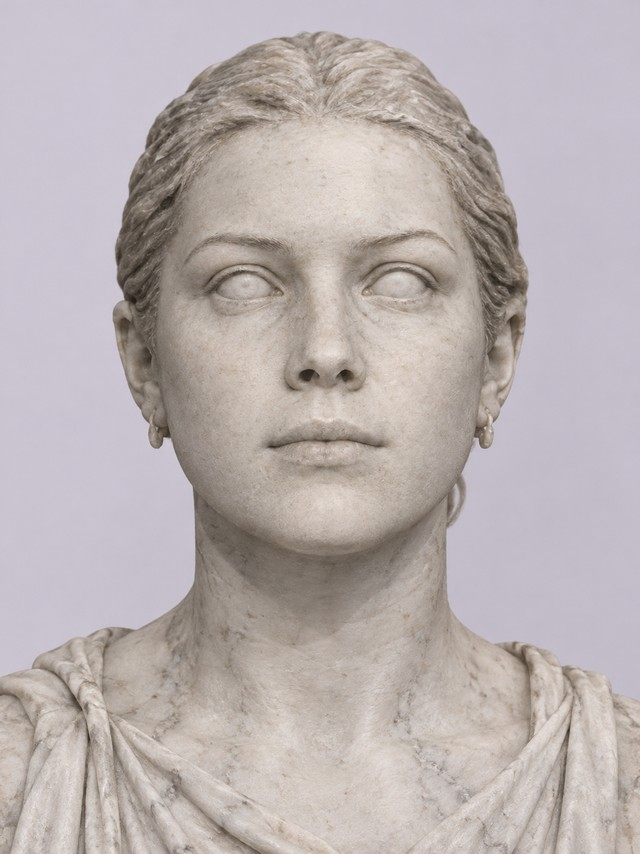
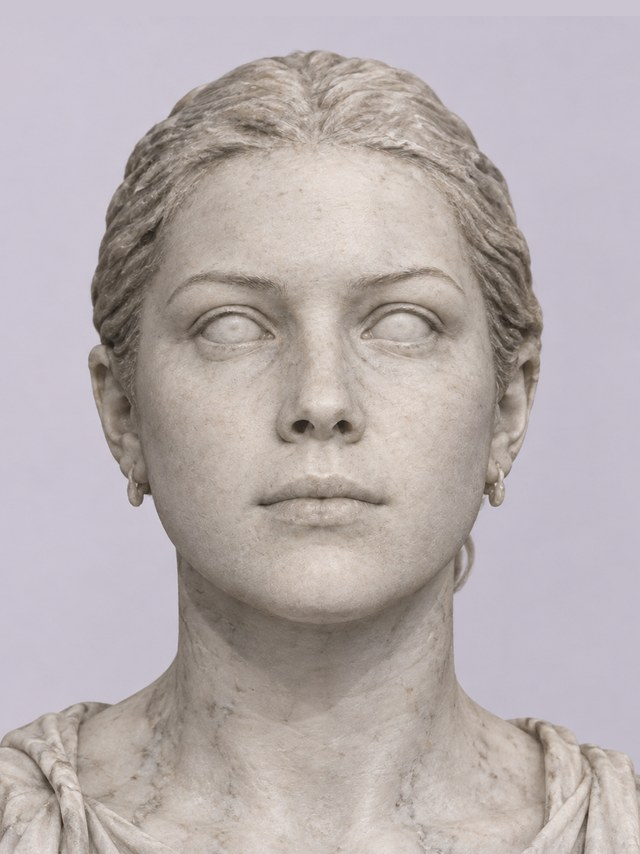
About us: estatua de Sarah alineada con su foto para que el fundido calce

diff --git a/de/about-us/index.html b/de/about-us/index.html
@@ -98,7 +98,7 @@
           </div>
         </div>
         <div class="director socia">
-          <span class="estatua" tabindex="0"><img class="director-foto" src="../../img/sarah.jpg" alt="Sarah Stachova" width="640" height="854" loading="lazy"><img class="director-foto marmol" src="../../img/sarah-estatua.jpg" alt="" aria-hidden="true" width="640" height="854" loading="lazy"></span>
+          <span class="estatua" tabindex="0"><img class="director-foto" src="../../img/sarah.jpg" alt="Sarah Stachova" width="640" height="854" loading="lazy"><img class="director-foto marmol" src="../../img/sarah-estatua.jpg?v=2" alt="" aria-hidden="true" width="640" height="854" loading="lazy"></span>
           <div>
             <p class="firma"><strong>Sarah Stachova</strong> — Management &amp; Kommunikation</p>
             <p>Management und Kommunikation, Deutsch als Muttersprache; Ansprechpartnerin für deutschsprachige Kundinnen und Kunden.</p>

diff --git a/es/about-us/index.html b/es/about-us/index.html
@@ -98,7 +98,7 @@
           </div>
         </div>
         <div class="director socia">
-          <span class="estatua" tabindex="0"><img class="director-foto" src="../../img/sarah.jpg" alt="Sarah Stachova" width="640" height="854" loading="lazy"><img class="director-foto marmol" src="../../img/sarah-estatua.jpg" alt="" aria-hidden="true" width="640" height="854" loading="lazy"></span>
+          <span class="estatua" tabindex="0"><img class="director-foto" src="../../img/sarah.jpg" alt="Sarah Stachova" width="640" height="854" loading="lazy"><img class="director-foto marmol" src="../../img/sarah-estatua.jpg?v=2" alt="" aria-hidden="true" width="640" height="854" loading="lazy"></span>
           <div>
             <p class="firma"><strong>Sarah Stachova</strong> — Gestión y comunicación</p>
             <p>Gestión y comunicación, alemán como lengua materna; contacto para clientes de habla alemana.</p>

diff --git a/about-us/index.html b/about-us/index.html
@@ -97,7 +97,7 @@
           </div>
         </div>
         <div class="director socia">
-          <span class="estatua" tabindex="0"><img class="director-foto" src="../img/sarah.jpg" alt="Sarah Stachova" width="640" height="854" loading="lazy"><img class="director-foto marmol" src="../img/sarah-estatua.jpg" alt="" aria-hidden="true" width="640" height="854" loading="lazy"></span>
+          <span class="estatua" tabindex="0"><img class="director-foto" src="../img/sarah.jpg" alt="Sarah Stachova" width="640" height="854" loading="lazy"><img class="director-foto marmol" src="../img/sarah-estatua.jpg?v=2" alt="" aria-hidden="true" width="640" height="854" loading="lazy"></span>
           <div>
             <p class="firma"><strong>Sarah Stachova</strong> — Management &amp; Communication</p>
             <p>Management and communication, native German speaker; contact person for German-speaking clients.</p>
